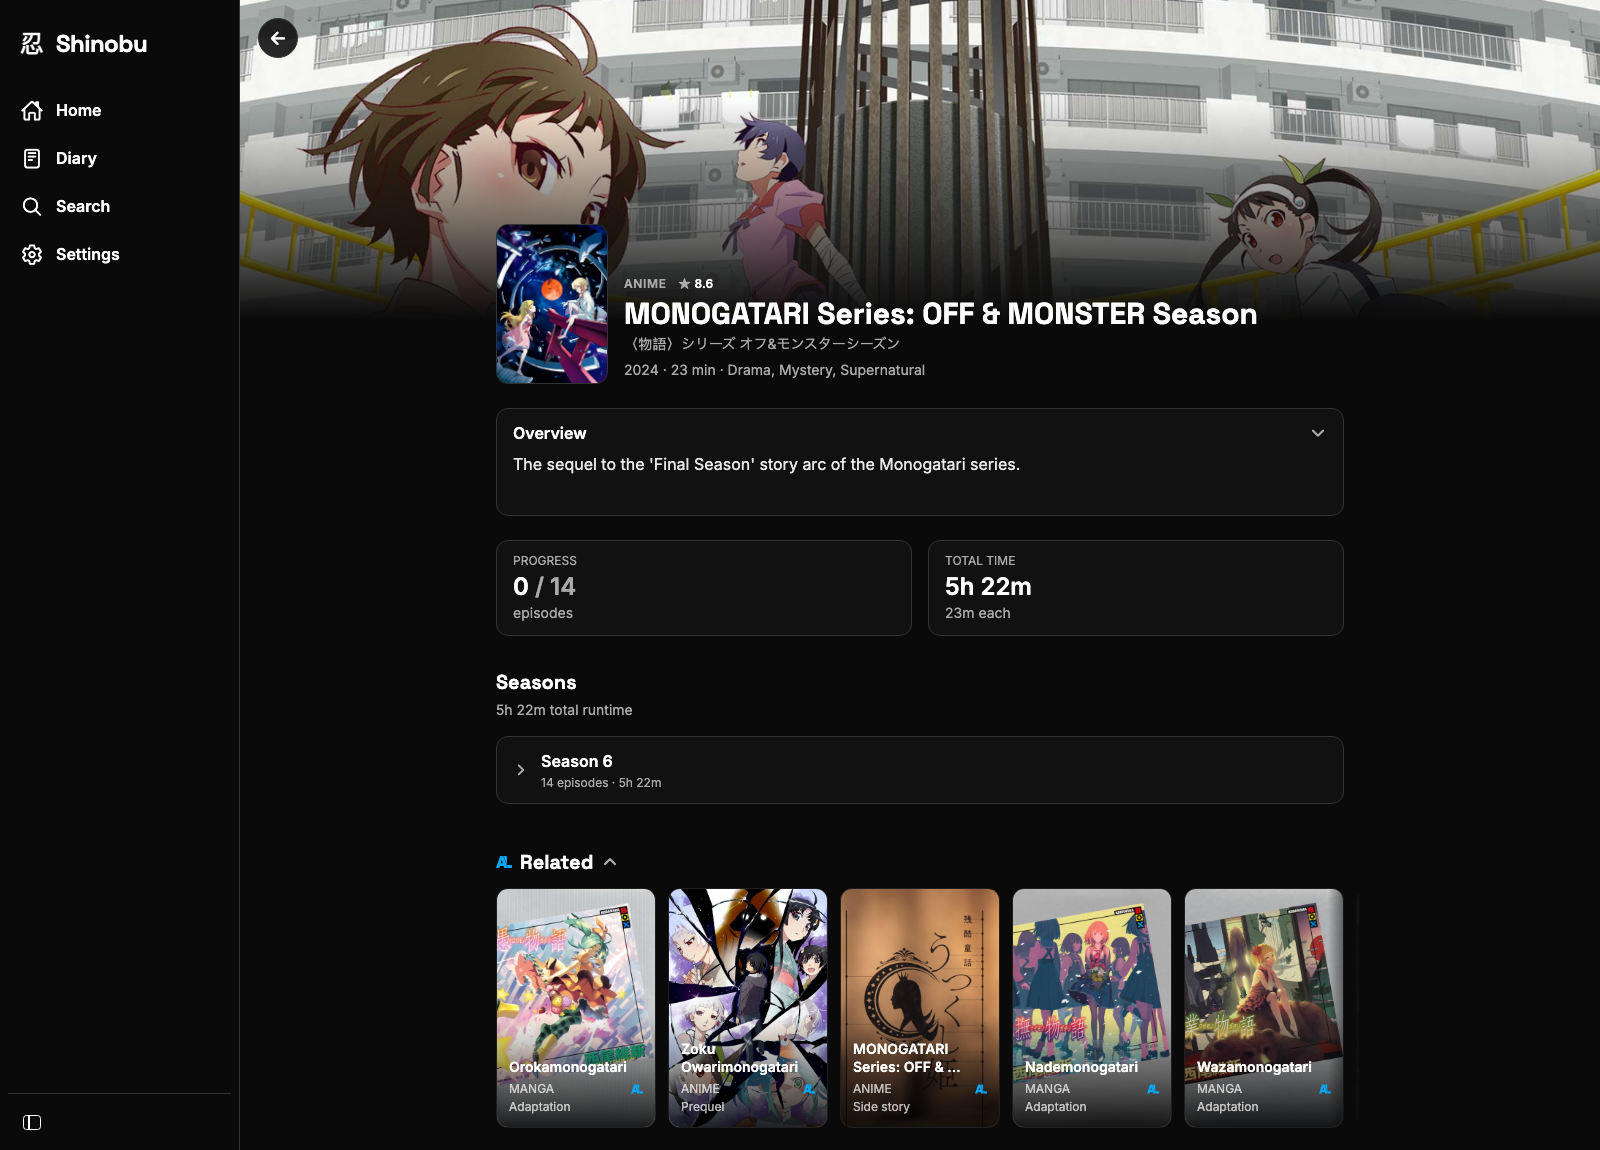
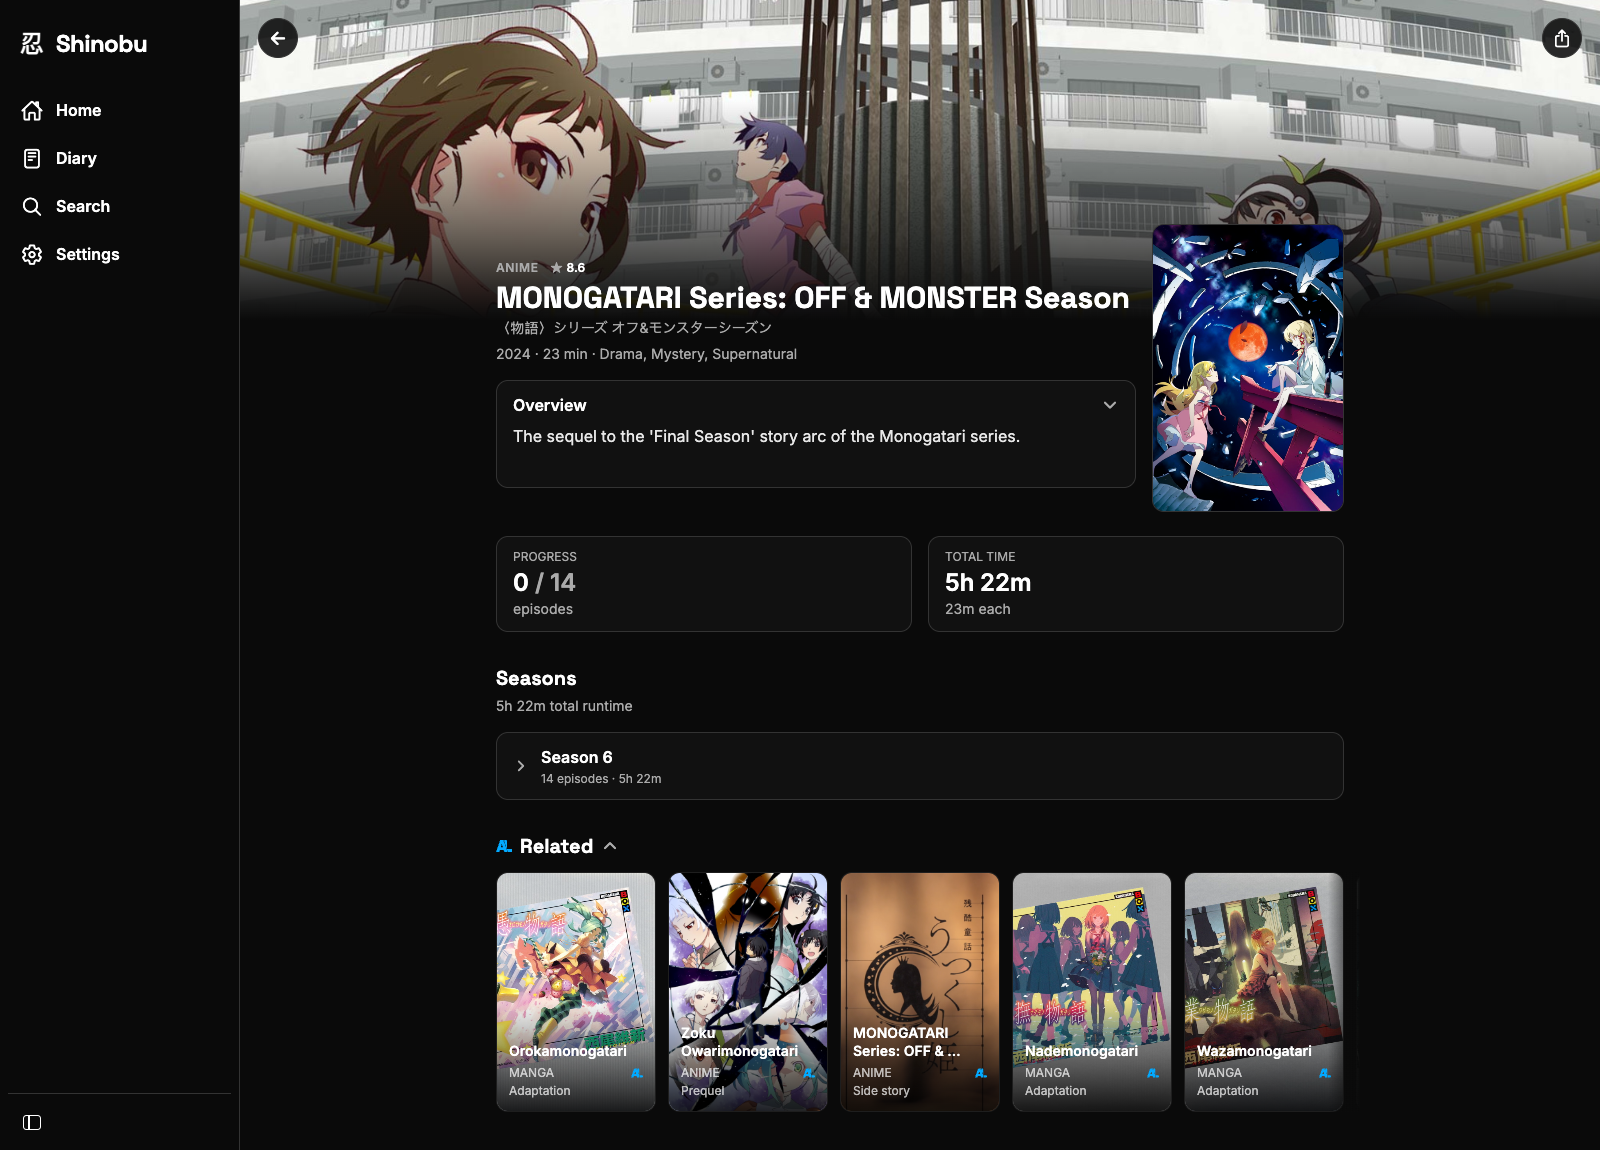
feat(details): two-column header with title beside a larger poster (#311)
* feat(details): lay out the header as title column beside a larger poster

* docs(readme): refresh the details screenshot for the two-column header

* chore(ci): retry Cloudflare preview build

---------

diff --git a/src/app/details/[provider]/[id]/index.tsx b/src/app/details/[provider]/[id]/index.tsx
@@ -477,9 +477,14 @@ function DetailsSkeleton({ zoomPoster }: { zoomPoster?: string }) {
     <>
       <Skeleton className="h-80 w-full" delay={staggerDelay(0)} />
       <View className="w-full max-w-4xl self-center px-6">
-        <View className="flex-row items-end -mt-24 mb-6">
+        <View className="flex-row items-end gap-4 -mt-24 mb-6">
+          <View className="flex-1">
+            <Skeleton className="h-3 w-16 rounded" delay={staggerDelay(2)} />
+            <Skeleton className="h-8 w-48 rounded mt-2" delay={staggerDelay(2)} />
+            <Skeleton className="h-3 w-32 rounded mt-2" delay={staggerDelay(2)} />
+          </View>
           <Link.AppleZoomTarget>
-            <View className="w-28 h-40 rounded-lg overflow-hidden bg-surface">
+            <View className="w-32 h-48 md:w-48 md:h-72 rounded-lg overflow-hidden bg-surface">
               {zoomPoster != null ? (
                 <Image source={{ uri: zoomPoster }} className="w-full h-full" transition={0} />
               ) : (
@@ -487,11 +492,6 @@ function DetailsSkeleton({ zoomPoster }: { zoomPoster?: string }) {
               )}
             </View>
           </Link.AppleZoomTarget>
-          <View className="flex-1 ml-4 pb-1">
-            <Skeleton className="h-3 w-16 rounded" delay={staggerDelay(2)} />
-            <Skeleton className="h-8 w-56 rounded mt-2" delay={staggerDelay(2)} />
-            <Skeleton className="h-3 w-40 rounded mt-2" delay={staggerDelay(2)} />
-          </View>
         </View>
         <ExpandableText.Skeleton />
       </View>
@@ -658,6 +658,7 @@ function DetailsScreen() {
   const shown = applyPrimaryMetadata(item, mediaDetails.data?.catalogue);
   const meta = metaLine(shown);
   const alternates = alternateTitles(shown);
+  const overview = shown.overview != null ? <ExpandableText text={shown.overview} /> : null;
   // "0 / 1 episodes" on a film (anime films included) is noise — only show
   // progress where it means something (series, manga, or a film already logged).
   const showProgress =
@@ -756,20 +757,8 @@ function DetailsScreen() {
 
       {/* max-w keeps wide (web) viewports readable; on phones it's inert. */}
       <View className="w-full max-w-4xl self-center px-6">
-        <View className="flex-row items-end -mt-24 mb-6">
-          <Link.AppleZoomTarget>
-            <View className="w-28 h-40">
-              <ZoomableImage
-                alt={shown.title}
-                uri={zoomPoster ?? (shown.coverImage || artwork.coverImage)}
-                type="image"
-                className="w-28 h-40 rounded-lg border border-border bg-surface"
-                contentFit="cover"
-                {...(zoomPoster != null ? { transition: 0 } : {})}
-              />
-            </View>
-          </Link.AppleZoomTarget>
-          <View className="flex-1 ml-4 pb-1">
+        <View className="flex-row items-end gap-4 -mt-24 mb-6">
+          <View className="flex-1">
             <View className="flex-row items-center gap-3">
                <Eyebrow>{shown.type}</Eyebrow>
               {shown.rating != null && (
@@ -794,7 +783,7 @@ function DetailsScreen() {
               />
             </ScrolledTitle.Anchor>
             {alternates.length > 0 && (
-              <Text className="text-muted font-sans text-sm mt-0.5">
+              <Text className="text-muted font-sans text-sm mt-0.5" numberOfLines={2}>
                 {alternates.join(' · ')}
               </Text>
             )}
@@ -804,10 +793,25 @@ function DetailsScreen() {
               </Text>
             )}
             <WatchedLine item={shown} />
+            {/* Wide screens fill the column beside the poster; phones keep the
+                overview full width below it. */}
+            {overview != null && <View className="hidden md:flex mt-4">{overview}</View>}
           </View>
+          <Link.AppleZoomTarget>
+            <View className="w-32 h-48 md:w-48 md:h-72">
+              <ZoomableImage
+                alt={shown.title}
+                uri={zoomPoster ?? (shown.coverImage || artwork.coverImage)}
+                type="image"
+                className="w-32 h-48 md:w-48 md:h-72 rounded-lg border border-border bg-surface"
+                contentFit="cover"
+                {...(zoomPoster != null ? { transition: 0 } : {})}
+              />
+            </View>
+          </Link.AppleZoomTarget>
         </View>
 
-        {shown.overview != null && <ExpandableText text={shown.overview} />}
+        {overview != null && <View className="md:hidden">{overview}</View>}
 
         {/* Placement only, film-like only (plan 0031 R11): a film that isn't
             out yet can't be logged, so the want-to-watch CTA is the primary

diff --git a/README.md b/README.md
@@ -16,7 +16,7 @@
 </details>
 
 <p align="center">
-  <img src="./docs/images/screenshot-details.png" width="49%" alt="An anime's detail screen with progress, seasons, and related posters with muted captions and AniList source badges" />
+  <img src="./docs/images/screenshot-details.png" width="49%" alt="An anime's detail screen with its title and overview beside the poster, then progress, seasons, and related posters with muted captions and AniList source badges" />
   <img src="./docs/images/screenshot-person.png" width="49%" alt="NISIOISIN's page with biography, works filters, and anime and manga posters with role captions and AniList source badges" /><br />
   <sub>A detail page and NISIOISIN's works, with no tracker connected. Person pages remember your poster or list preference locally.</sub>
 </p>
@@ -33,7 +33,7 @@ Shinobu works with Simkl, Trakt, AniList, Letterboxd, and Serializd. Connect any
 - **Up Next in your timezone.** An episode counts as watchable once it has aired where you are, not where the show airs.
 - **Local release notifications.** iOS and Android schedule reminders for upcoming episodes on the device. There is no push server.
 - **A link when a write can't happen.** If a tracker rejects a write, or can't take one on your platform, you get a link to that title's page on the tracker so you can log it there.
-- **Detail pages.** Metadata comes from TMDB first, with Trakt and AniList as fallbacks. Pages list cast, crew, seasons, and related titles. AniList titles also show characters, staff, recommendations, and tags. A Variants row links to the same title on TMDB and the trackers, and pressing a title copies it.
+- **Detail pages.** Metadata comes from TMDB first, with Trakt and AniList as fallbacks. The header sets the title beside the poster, and wide screens fit the overview there too. Pages list cast, crew, seasons, and related titles. AniList titles also show characters, staff, recommendations, and tags. A Variants row links to the same title on TMDB and the trackers, and pressing a title copies it.
 - **Episode pages.** Swipe between episodes. Marking one watched opens the next.
 - **Person and studio pages.** A person's or studio's work sits on one timeline, newest first, filtered by format and role.
 - **Anime seasons.** Browse each season's anime from AniList, split into series and films.
